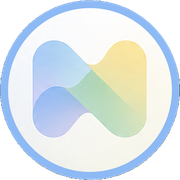
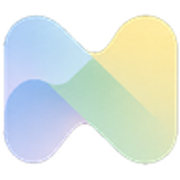
chore: 파비콘을 헤더 로고와 같은 마크로 통일
파비콘을 흰 원 + 파란 테두리 버전에서 헤더가 쓰는 로고 마크로 바꾼다.
탭과 헤더가 같은 그림이라야 어느 탭이 이 서비스인지 바로 이어진다.

원 버전은 밝은 탭 배경에서 흰 원이 묻혀 테두리로 경계를 잡아줘야 했는데,
마크만 쓰면 그 보정 자체가 필요 없다. 16px 로 렌더해 형태가 읽히는 것을 확인했다.

함께 지운 것 — 둘 다 이전 템플릿 잔재다:
- public/favicon.svg: 보라색 로고. 코드 참조는 없지만 브라우저가 /favicon.svg 를
  관례적으로 직접 요청하는 경우가 있어, 남겨두면 옛 아이콘이 뜰 수 있다
- public/icons.svg: Bluesky 등 소셜 아이콘 심볼 모음. 이 서비스와 무관하다

diff --git a/src/app/layout.tsx b/src/app/layout.tsx
@@ -5,8 +5,8 @@ import { Providers } from "./providers";
 export const metadata: Metadata = {
   title: "Narvis",
   description: "AI 쇼핑 에이전트 Narvis — 대화로 찾는 쇼핑",
-  // 파비콘은 로고의 흰 원 배경을 뺀 마크만 쓴다 — 원째로 넣으면 밝은 탭 배경에
-  // 흰 원이 묻혀 형태가 안 읽힌다(16px 에서 확인).
+  // 파비콘은 헤더와 같은 로고 마크를 쓴다 — 탭과 헤더가 같은 그림이라야
+  // 어느 탭이 이 서비스인지 바로 이어진다.
   // 32/180 두 벌: 탭용과 iOS 홈화면 추가용으로 요구 크기가 다르다.
   icons: {
     icon: "/icon-32.png",
